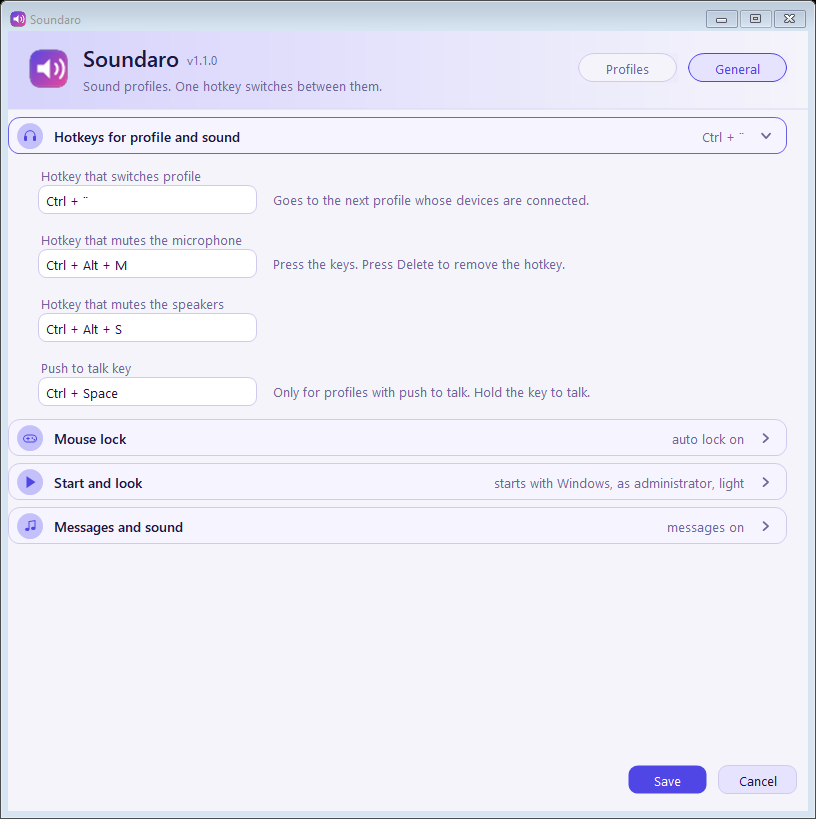
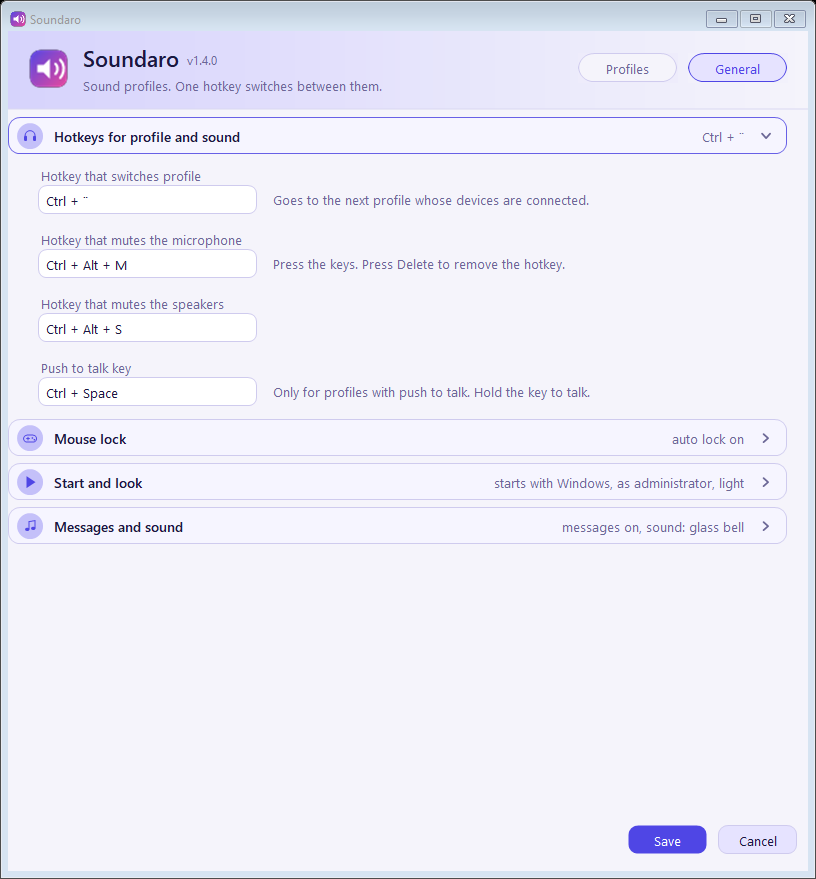
Soundaro 1.4.0: README, changelog and pictures

diff --git a/README.md b/README.md
@@ -53,7 +53,7 @@ A profile knows these things:
 | **Microphone** and **Microphone (communication)** | The same, for the microphone. |
 | **Set playback volume to** / **Set microphone volume to** | A volume that is set when the profile starts. The volume from before comes back when you switch to a profile that sets none. |
 | **Mute the speakers** / **Mute the microphone** | Makes a *mute profile*. One hotkey makes everything quiet. The next profile brings the sound back. |
-| **Soft sound when I switch** | A short *bloop* on the new device, so you know it worked. |
+| **Soft sound when I switch** | A short, soft sound on the new device, so you know it worked (see *Sounds* below). |
 
 **Four ways to switch:**
 
@@ -62,6 +62,8 @@ A profile knows these things:
 - **The tray menu** lists all profiles. The active one has a tick.
 - **By itself.** A profile can start *when its program starts* (a game), and *when its device connects* (your Bluetooth headset).
   When the game closes, Soundaro goes back to the profile you had before. You can switch this off per profile.
+- **Several programs.** A profile can have more than one program, for example a game and its launcher. Separate them with commas.
+  The profile starts when one of them starts, and it counts as closed when all of them have closed.
 
 Soundaro counts a game as closed when its **window** is gone, not when its process ends.
 A game can need 15 seconds more to shut down. You do not wait for that.
@@ -113,6 +115,23 @@ A profile can **cover chosen screens with black**. No more glare from a second s
 
 ![The Black cover section](docs/images/profile-cover-dark.png)
 
+#### ⏱ Play time limit and clock
+
+The cover shows the **time** (HH:mm) under the game name, when the graphs are on.
+
+Give a profile a **play time limit** (5 to 480 minutes, in steps of 5), in the section *In the game and play time*:
+
+- The timer starts with the profile. For a profile with a game, that is when the game starts. A profile without a program name works too.
+- With the graphs on, the cover shows the **time left**.
+- When the time is up, you get a message and a soft sound, and the covered screens **pulse slowly**: from black to a dim amber and back,
+  one breath in 4 seconds. It never flashes and it never gets bright. A plain black cover pulses too.
+- The tray menu shows the time left and has **Snooze 10 minutes** and **Stop the play time reminder**.
+  The pulse also stops when the game closes or when you switch to another profile.
+- The log has the whole story: when the timer started, when time was up, **each snooze**, and how long you played.
+  It also logs the **game time** of every program that a profile starts on: *"Game time: arma3_x64.exe played 1:23:45"*.
+
+![The cover with the time that is left](docs/images/cover-timeleft.png)
+
 #### 📈 FPS
 
 Tick **Show the FPS** and the cover shows a big FPS number, the **median**, and the **1 % low** (the speed of your slowest 1 % of frames).
@@ -138,6 +157,39 @@ its banner and its icon in `%APPDATA%\Soundaro\art`. If the program is not from 
 - The profile list shows the **real icon** of the program.
 
 Nothing goes to the network. Soundaro reads your Steam files on your own disk.
+
+### 📒 Play time log
+
+Soundaro keeps a log of your play time. Each time a program of a profile runs and closes, one line goes to
+`%APPDATA%\Soundaro\playtime.csv`: the date, the start, the end, the seconds, the profile and the program.
+It opens in Excel or Notepad. A run of less than 10 seconds is not counted.
+
+In Settings, the section **Play time log** adds up **all the programs of the profile**:
+
+- the time **today**, in the **last 7 days**, and **in total**,
+- the time of **each program**, with the number of sessions,
+- the **last sessions**, with the start and end,
+- a button that opens the log file.
+
+![The play time log of a profile](docs/images/profile-playlog-dark.png)
+
+### 🔔 Sounds
+
+Soundaro has its own sounds, made for it. They are not recordings of other people, so there is no licence question,
+and they sit inside the exe. Choose a **theme** in *General › Messages and sound*:
+
+- **Glass bell** (the default): clear and soft, with a gentle tail.
+- **Marimba**: warm and round, like wooden bars.
+- **Soft pluck**: a light, plucked string.
+- **Off**.
+
+Seven sounds, all calm: **profile switch** (two soft rising notes), **time is up** (a calm rising triad, not an alarm), **snooze** (one low note),
+**mute on** and **mute off** (a short step down, and a short step up), **mouse lock** and **mouse free** (a soft tick, and a lighter one).
+
+**You can hear all of them in Settings.** There is a play button for every sound, and a new theme plays at once, with the volume you set.
+One switch turns off the sounds for the mute and mouse lock hotkeys. (A mouse lock by the auto lock is always silent.)
+
+![Messages and sound](docs/images/general-messages-dark.png)
 
 ### ✨ Little things we liked
 
@@ -173,6 +225,7 @@ Right-click the tray icon:
 - Your **profiles**. The active one has a tick.
 - **Mute speakers** and **Mute microphone**.
 - **Free the mouse** (only while the mouse is locked).
+- **Play time left**, **Snooze 10 minutes** and **Stop the play time reminder** (only while a play time limit runs).
 - **Remove the black cover** (only while a cover is on).
 - **Restart as administrator (for the FPS)** (only if a profile wants the FPS and Soundaro is not an administrator).
 - **Settings...**, the version, and **Exit**.
@@ -190,13 +243,14 @@ Everything is in two pages with sections. One section is open at a time, so you 
 | ![Profiles, dark](docs/images/profiles-dark.png) | ![Profiles, light](docs/images/profiles-light.png) |
 
 Left: your profiles, with **Add**, **Remove**, **Move up** and **Move down**. The order is the order of the hotkey.
-Right: the banner of the profile, its name and icon, and five sections:
+Right: the banner of the profile, its name and icon, and six sections:
 
 1. **Sound devices and volume.** Playback, microphone, and the volumes.
-2. **When it starts.** The program name, with the list button. Go back to the earlier profile when the program closes. Switch when a device connects. The soft sound.
-3. **In the game.** Mute when away, push to talk, mouse speed.
+2. **When it starts.** The programs (one or more), with the list button. Go back to the earlier profile when the program closes. Switch when a device connects. The soft sound.
+3. **In the game and play time.** Mute when away, push to talk, mouse speed, and the play time limit.
 4. **Mute profile.** Mute the speakers and the microphone.
-5. **Black cover for screens.** The screens, the graphs, the FPS and the size.
+5. **Play time log.** The time of all programs of the profile, added up.
+6. **Black cover for screens.** The screens, the graphs, the FPS and the size.
 
 ![When it starts](docs/images/profile-start-dark.png)
 
@@ -209,7 +263,7 @@ Right: the banner of the profile, its name and icon, and five sections:
 1. **Hotkeys for profile and sound.** Switch profile, mute the microphone, mute the speakers, push to talk.
 2. **Mouse lock.** The lock hotkey, the auto lock hotkey, the auto lock, locking normal windows, and the programs to never lock.
 3. **Start and look.** Start with Windows, as administrator, light theme, and **Open log file**.
-4. **Messages and sound.** The message at the top, how long it stays, and the volume of the soft sound.
+4. **Messages and sound.** The message at the top, how long it stays, the volume, the sound theme, a play button for every sound, and the switch for the hotkey sounds.
 
 ![Mouse lock](docs/images/general-mouse-dark.png)
 
@@ -219,7 +273,8 @@ Right: the banner of the profile, its name and icon, and five sections:
 
 - Soundaro **never connects to the internet**. No update check. No telemetry. Nothing.
 - Your settings are one small file: `%APPDATA%\Soundaro\config.json`. Delete it, and Soundaro starts fresh.
-- The log is `%APPDATA%\Soundaro\log.txt`. It stays on your PC.
+- The log is `%APPDATA%\Soundaro\log.txt`. It stays on your PC. It has the profile switches, the snoozes and the game time.
+- The play time log is `%APPDATA%\Soundaro\playtime.csv`. It stays on your PC too.
 - The banners and icons are in `%APPDATA%\Soundaro\art`. Delete the folder, and Soundaro makes them again.
 - Push to talk reads **one key**. Soundaro installs **no keyboard hook** and **no mouse hook**.
 - The FPS only listens to frame events from Windows. It puts **no code in any game**.
@@ -231,6 +286,7 @@ Right: the banner of the profile, its name and icon, and five sections:
 - If a hotkey is already used by another program, Soundaro tells you at start. Pick another one.
 - Push to talk mutes your real Windows microphone. If Soundaro crashes in the middle of a game, press your mute hotkey to bring it back.
 - The FPS works for DirectX 9 to 12. It needs administrator rights.
+- The play time pulse is slow and dim on purpose. It is a reminder, not an alarm.
 - The black cover is a black window on top. An LCD screen still has its backlight on, so a faint glow stays. An OLED screen turns fully dark.
   Because nothing moves, a screen that stays covered for many hours can show burn-in on OLED. Switch to a profile without a cover when you are done.
 - If you move the exe and you use **As administrator**, switch it off and on again, so the task points to the new place.

diff --git a/CHANGELOG.md b/CHANGELOG.md
@@ -3,6 +3,39 @@
 Versions are major.minor.patch.
 Patch: a fix. Minor: a new feature. Major: a big change.
 
+## 1.4.0
+
+- New: a play time log. Each time a program of a profile runs and closes, one line goes to `%APPDATA%\Soundaro\playtime.csv`
+  (date, start, end, seconds, profile, program). It opens in Excel or Notepad.
+- New: a profile can have several programs (separate them with commas). The list button adds the chosen program to the list.
+  The profile starts when one of its programs starts, and it counts as closed when all of them closed.
+- New: in Settings, a section "Play time log" shows the time of all programs of the profile, added up: today, the last 7 days and in total,
+  by program, and the last sessions. A button opens the log file.
+
+## 1.3.0
+
+- New: sounds that sound like a real product. Three themes: Glass bell (default), Marimba and Soft pluck. Or Off.
+  Seven sounds: profile switch, time is up, snooze, mute on, mute off, mouse lock, mouse free.
+  They are made for Soundaro and sit inside the exe.
+- New: in Settings, General, Messages and sound: a theme choice and a button for every sound. A new theme plays at once.
+- New: sounds for the mute and mouse lock hotkeys (the auto lock stays silent). One switch turns them off.
+
+## 1.2.1
+
+- The play time limit can be 5 to 480 minutes (before: 15 to 240). Each profile remembers its own limit.
+
+## 1.2.0
+
+- New: a play time limit for each profile (5 to 480 minutes). It starts with the profile.
+  The cover shows the time that is left. When the time is up, a message shows, a soft sound plays, and the covered screens pulse slowly
+  (black to a dim amber, one breath in 4 seconds, never bright). A plain black cover pulses too.
+- New: the tray menu has "Snooze 10 minutes" and "Stop the play time reminder" while a timer runs.
+- New: the log has the play time (start, time up, each snooze, end) and the game time of each program (how long it ran).
+
+## 1.1.1
+
+- Fix: with the graphs switched off, the cover is plain black. Before, it still drew the profile name, the clock and empty graph frames.
+
 ## 1.1.0
 
 - New: a profile can cover chosen screens with black, to remove the glare. The main screen is never covered.
